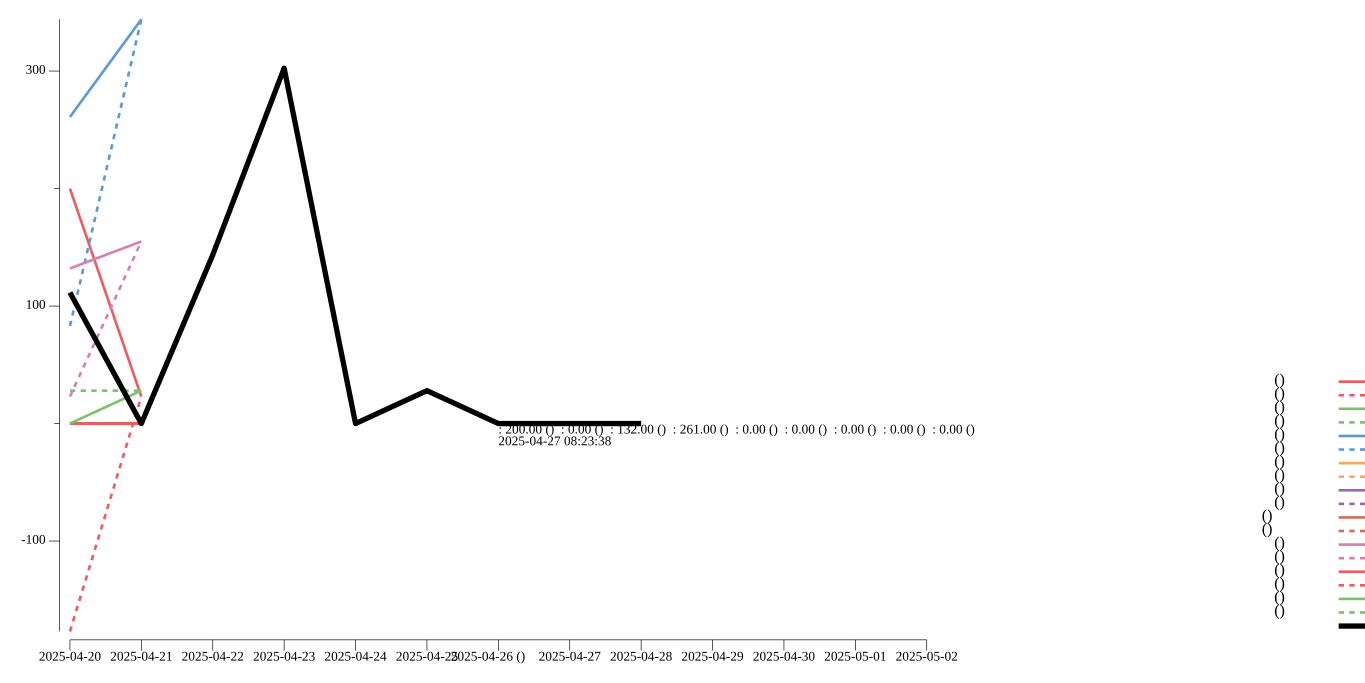
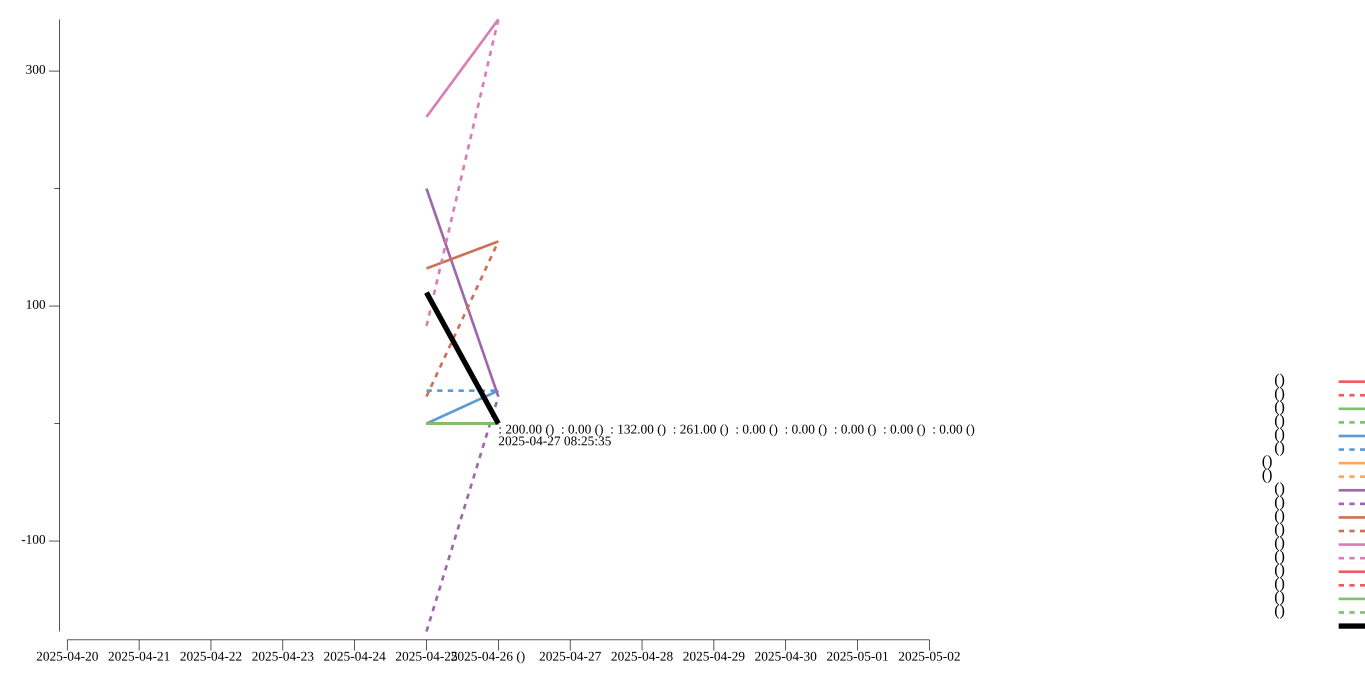
자동 집중도 데이터: 2025-04-26

diff --git a/internal/analyzer/plot.go b/internal/analyzer/plot.go
@@ -183,8 +183,9 @@ func PlotTimeSlotAverageFocusPNG(data []common.FocusData) ([]byte, error) {
 // - evalText: 평가 텍스트
 // - watermark: 워터마크(날짜/시간)
 // - aggregateLine: 전체 평균 라인 (없으면 nil)
+// - data: 추가 데이터 배열
 // 반환: PNG 이미지 []byte, 에러
-func DrawFocusTrends(points, regressionLines map[string]plotter.XYs, evalText, watermark string, aggregateLine plotter.XYs) ([]byte, error) {
+func DrawFocusTrends(points, regressionLines map[string]plotter.XYs, evalText, watermark string, aggregateLine plotter.XYs, data []common.FocusData) ([]byte, error) {
 	p := plot.New()
 	p.Title.Text = "카테고리별 트렌드 및 회귀선"
 	p.X.Label.Text = "일자"
@@ -217,14 +218,13 @@ func DrawFocusTrends(points, regressionLines map[string]plotter.XYs, evalText, w
 	colors := plotutil.SoftColors
 	colorIdx := 0
 	for cat, pts := range points {
-		// pts의 X를 실제 일자 기반으로 재설정
+		// pts의 X를 실제 일자 기반으로 재설정 (data[i].Date 사용)
 		newPts := make(plotter.XYs, 0, len(pts))
 		for i, pt := range pts {
-			// 일자 정보 추출 (assume data[i].Date)
-			var dateStr string
-			if i < len(points[cat]) && i < len(dates) {
-				dateStr = dates[i]
+			if i >= len(data) {
+				break
 			}
+			dateStr := data[i].Date
 			if x, ok := dateToX[dateStr]; ok {
 				newPts = append(newPts, plotter.XY{X: x, Y: pt.Y})
 			}
@@ -244,10 +244,10 @@ func DrawFocusTrends(points, regressionLines map[string]plotter.XYs, evalText, w
 		if regPts, ok := regressionLines[cat]; ok {
 			newRegPts := make(plotter.XYs, 0, len(regPts))
 			for i, pt := range regPts {
-				var dateStr string
-				if i < len(points[cat]) && i < len(dates) {
-					dateStr = dates[i]
+				if i >= len(data) {
+					break
 				}
+				dateStr := data[i].Date
 				if x, ok := dateToX[dateStr]; ok {
 					newRegPts = append(newRegPts, plotter.XY{X: x, Y: pt.Y})
 				}
@@ -271,10 +271,10 @@ func DrawFocusTrends(points, regressionLines map[string]plotter.XYs, evalText, w
 	if aggregateLine != nil && len(aggregateLine) > 0 {
 		newAgg := make(plotter.XYs, 0, len(aggregateLine))
 		for i, pt := range aggregateLine {
-			var dateStr string
-			if i < len(dates) {
-				dateStr = dates[i]
+			if i >= len(data) {
+				break
 			}
+			dateStr := data[i].Date
 			if x, ok := dateToX[dateStr]; ok {
 				newAgg = append(newAgg, plotter.XY{X: x, Y: pt.Y})
 			}

diff --git a/internal/analyzer/analyzer.go b/internal/analyzer/analyzer.go
@@ -65,7 +65,7 @@ func PlotFocusTrendsAndRegression(data []common.FocusData) ([]byte, error) {
 		aggregateLine[i].Y = avg
 	}
 
-	return DrawFocusTrends(points, regressionLines, evalText, watermark, aggregateLine)
+	return DrawFocusTrends(points, regressionLines, evalText, watermark, aggregateLine, data)
 }
 
 // PlotTimeSlotAverageFocusAggregatePNG: 전체 데이터를 합산하여 단일 평균 라인 그래프를 그림
